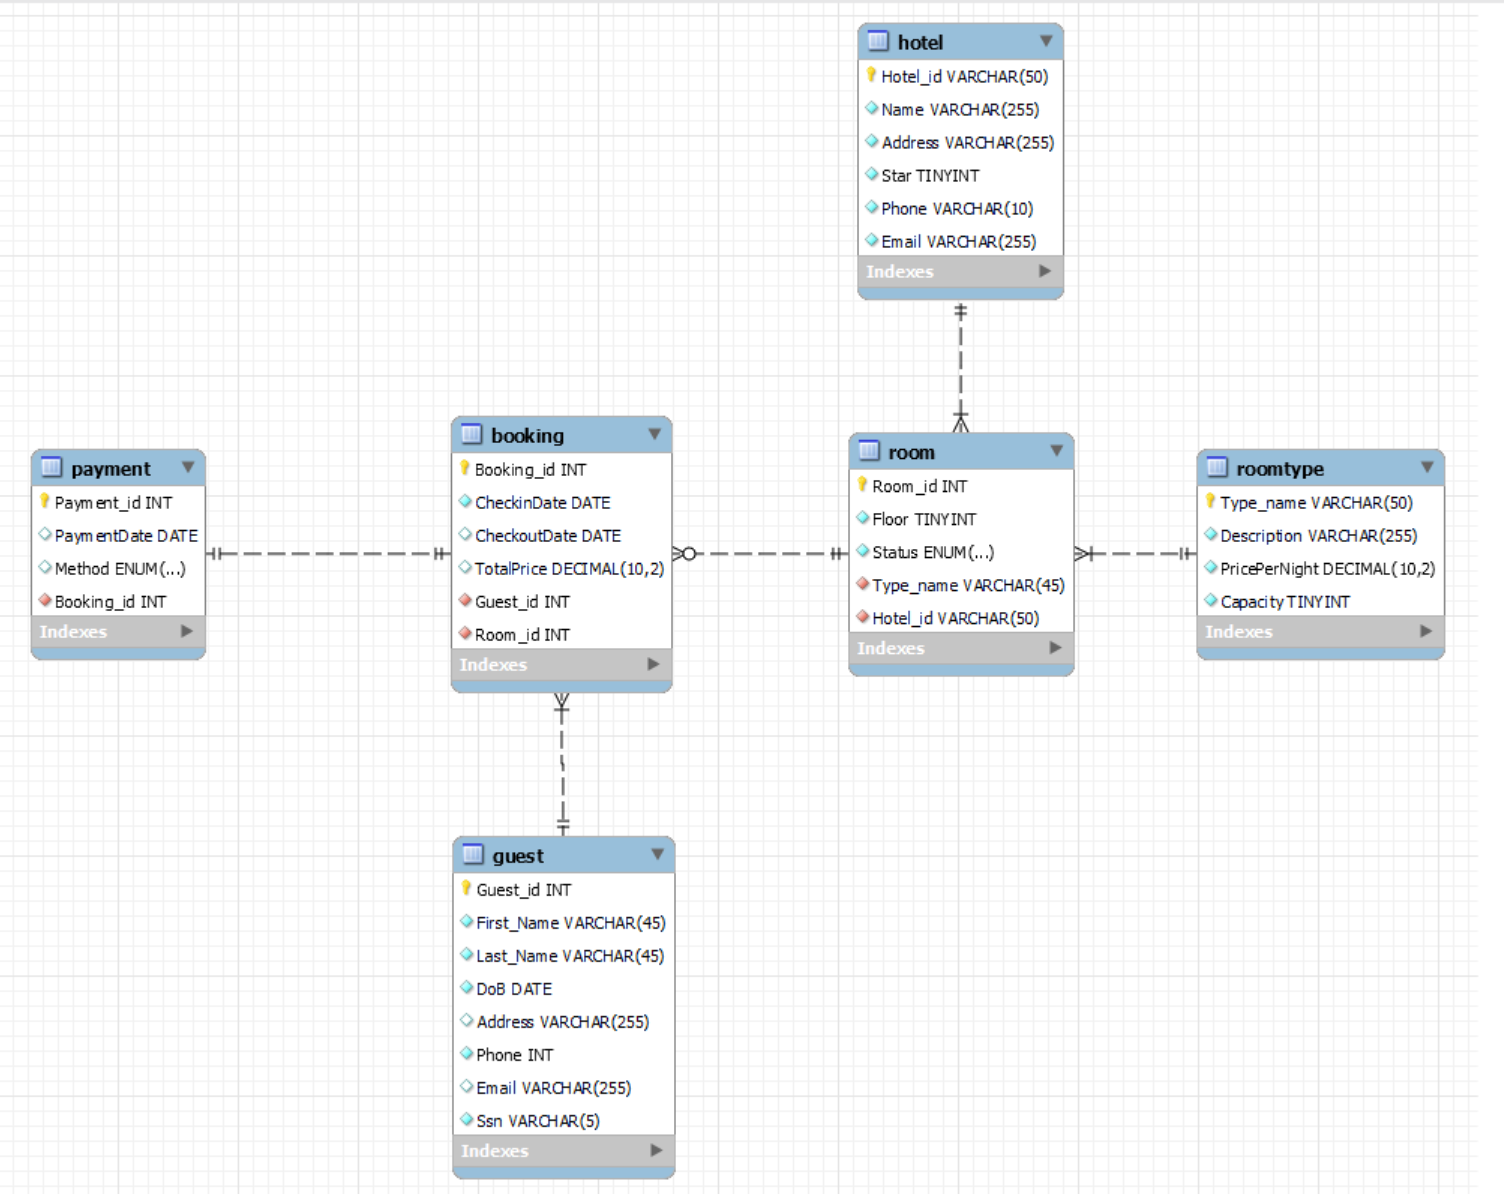
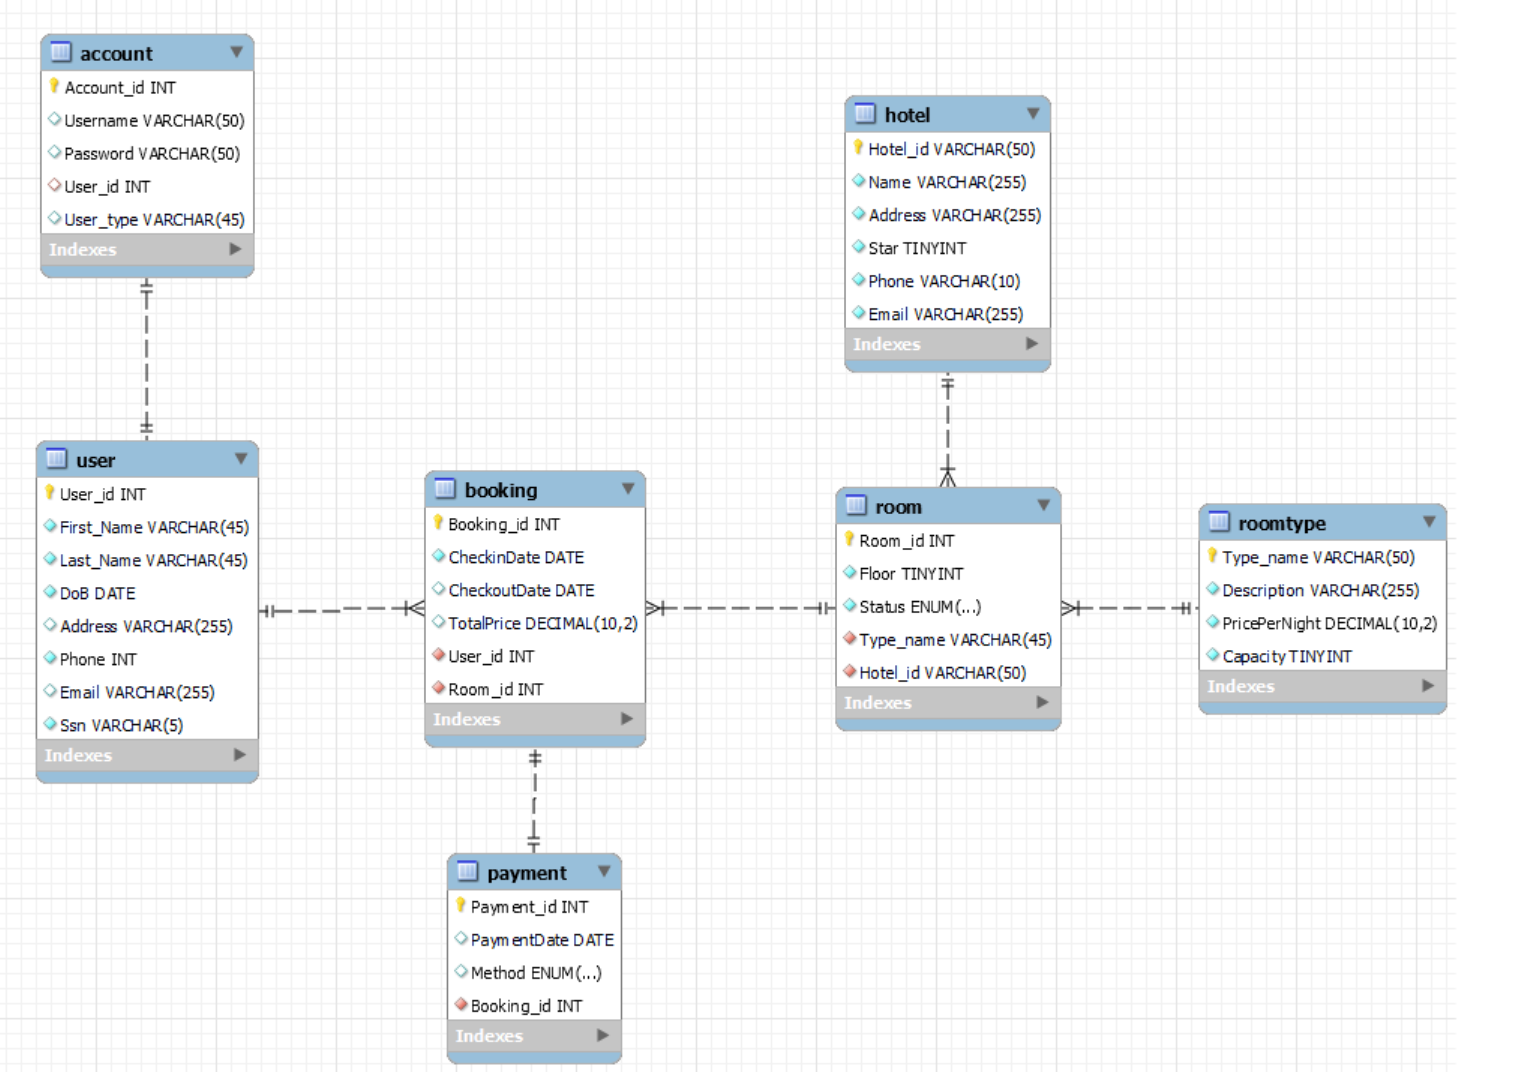
HotelManagement phase 2

diff --git a/src/ControlManager/Booking.java b/src/ControlManager/Booking.java
@@ -123,7 +123,7 @@ public class Booking extends JFrame {
                 Conn c = new Conn();
                 String guest_id = "";
                 try{
-                    String check_old_guest = "select Guest_id, Ssn from guest where Ssn = '"+ssn+"'";
+                    String check_old_guest = "select Guest_id, Ssn from user where Ssn = '"+ssn+"'";
                     ResultSet rs = c.s.executeQuery(check_old_guest);
 
                     if(rs.next()){
